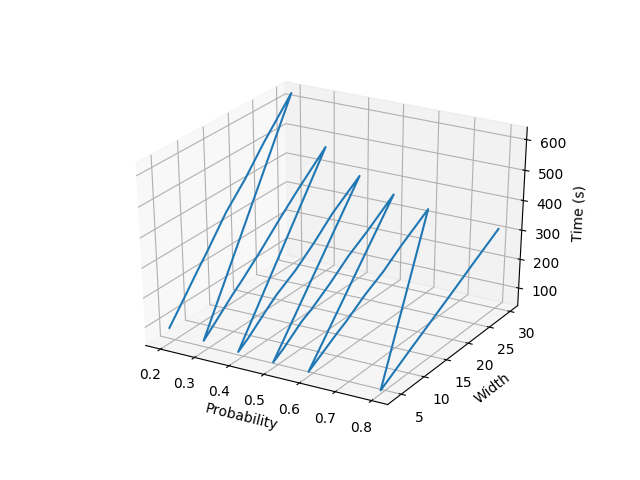
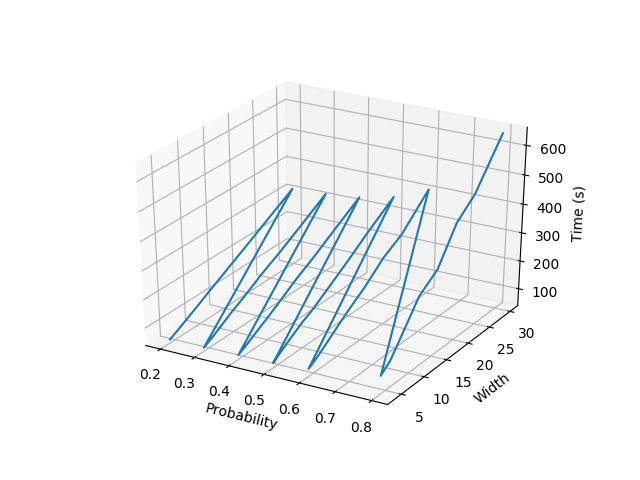
fixed inverse output issue

diff --git a/assignment0/assignment0/src/Coin.java b/assignment0/assignment0/src/Coin.java
@@ -16,7 +16,7 @@ public class Coin {
 	* Return a boolean value if the biased coin lands up in heads
 	*/
 	public boolean toss() {
-		return (boolean)(Math.random() > this.probabilityOfHeads);
+		return (boolean)(Math.random() < this.probabilityOfHeads);
 	}
 
 }
